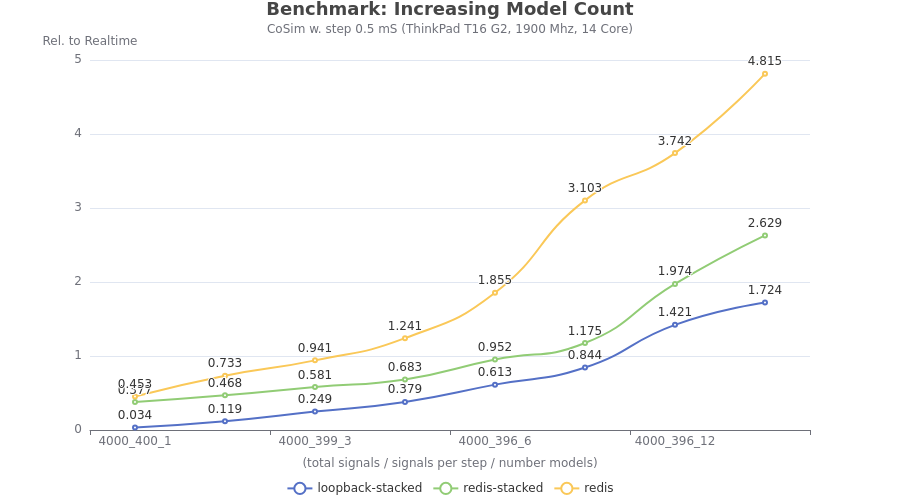
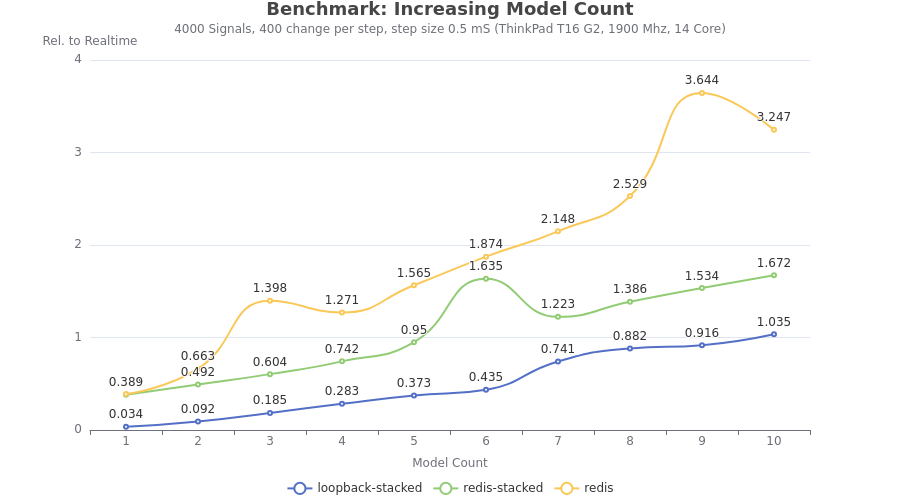
Update benchmark scripts.

diff --git a/dse/modelc/examples/benchmark/model.c b/dse/modelc/examples/benchmark/model.c
@@ -13,14 +13,6 @@
 #include <dse/logger.h>
 
 
-static uint64_t _get_seed()
-{
-    struct timeval tv;
-    gettimeofday(&tv, NULL);
-    return tv.tv_sec * (uint64_t)1000000 + tv.tv_usec;
-}
-
-
 static struct timespec _get_timespec_now(void)
 {
     struct timespec ts = {};
@@ -38,23 +30,19 @@ static uint64_t _get_elapsedtime_us(struct timespec ref)
 }
 
 
-static uint32_t _get_signal_change(
-    SignalVector* sv, uint32_t limit, uint32_t* seed)
-{
-    if (limit == 1) return limit;
-
-    uint32_t minimum = 1;
-    uint32_t maximum = (limit > sv->count) ? sv->count : limit;
-    /* 1 .. 1000 -> 1 .. rand_r(change) */
-    return (rand_r(seed) % (maximum + 1 - minimum)) + minimum;
-}
-
-
 typedef struct {
     ModelDesc       model;
-    /* Benchmark parameters. */
-    uint32_t        signal_change;
-    uint32_t        change_seed;
+
+    /* Operation Parameters */
+    uint32_t model_id;
+
+    /* Block Parameters (calculated). */
+    struct {
+        SignalVector* sv;
+        uint32_t      offset;
+        uint32_t      size;
+    } block;
+
     /* Profiling data. */
     struct timespec start_time;
     uint64_t        setup_time;
@@ -92,10 +80,20 @@ ModelDesc* model_create(ModelDesc* model)
     memcpy(m, model, sizeof(ModelDesc));
     m->start_time = _get_timespec_now();
 
-    /* Setup the benchmark parameters. */
-    m->signal_change =
-        _get_envar((ModelDesc*)m, "SIGNAL_CHANGE", m->model.sv->count);
-    m->change_seed = _get_seed();
+    /* Setup the parameters. */
+    m->model_id = _get_envar((ModelDesc*)m, "MODEL_ID", 1);
+    m->block.size = _get_envar((ModelDesc*)m, "SIGNAL_CHANGE", 5);
+    m->block.sv = m->model.sv;
+    m->block.offset = m->block.size * (m->model_id - 1);
+    if ((m->block.offset + m->block.size) > m->model.sv->count) {
+        m->block.offset = 0;
+    }
+
+     /* Document the conditions. */
+    log_notice("m->model_id %u", m->model_id);
+    log_notice("m->block.offset %u", m->block.offset);
+    log_notice("m->block.size %u", m->block.size);
+    log_notice("m->block.sv->count %u", m->block.sv->count);
 
     /* Return the extended object. */
     return (ModelDesc*)m;
@@ -109,16 +107,12 @@ int model_step(ModelDesc* model, double* model_time, double stop_time)
         m->setup_time = _get_elapsedtime_us(m->start_time);
     }
 
-    for (SignalVector* sv = m->model.sv; sv->name; sv++) {
-        uint32_t count =
-            _get_signal_change(sv, m->signal_change, &m->change_seed);
-        log_info("Signal change count is : %d", count);
-        for (size_t i = 0; i < count; i++) {
-            sv->scalar[i] += 1.2;
-        }
+    for (size_t i = 0; i < m->block.size; i++) {
+        size_t idx = m->block.offset + i;
+        m->block.sv->scalar[idx] += 1;
     }
-    m->step_count += 1;
 
+    m->step_count += 1;
     *model_time = stop_time;
     return 0;
 }
@@ -134,8 +128,8 @@ void model_destroy(ModelDesc* model)
         ":::benchmark:%s::%s;%s;%.6f;%.6f;%u;%u;%u;%lu;%."
         "3f;%.3f:::" LOG_COLOUR_NONE,
         tag, m->model.sim->transport, m->model.sim->uri,
-        m->model.sim->step_size, m->model.sim->end_time, m->model.mi->uid,
-        m->model.sv->count, m->signal_change, m->step_count,
+        m->model.sim->step_size, m->model.sim->end_time, m->model_id,
+        m->model.sv->count, m->block.size, m->step_count,
         m->setup_time / 1000000.0,
         _get_elapsedtime_us(m->start_time) / 1000000.0);
 }

diff --git a/extra/tools/benchmark/internal/app/chart/chart.go b/extra/tools/benchmark/internal/app/chart/chart.go
@@ -28,6 +28,8 @@ type ChartCommand struct {
 
 	title      string
 	conditions string
+	axisIndex  uint
+	axisLabel  string
 	inputFile  string
 	outputFile string
 }
@@ -41,6 +43,8 @@ func NewChartCommand(name string) *ChartCommand {
 	}
 	c.FlagSet().StringVar(&c.title, "title", "Benchmark", "chart title")
 	c.FlagSet().StringVar(&c.conditions, "conditions", "Conditions (N/A)", "chart conditions")
+	c.FlagSet().UintVar(&c.axisIndex, "axis_index", 1, "axis index from [redis_4000_200_10], index=3 -> 10")
+	c.FlagSet().StringVar(&c.axisLabel, "axis_label", "", "axis label")
 	c.FlagSet().StringVar(&c.inputFile, "input", "", "path to captured console output of benchmark simulation")
 	c.FlagSet().StringVar(&c.outputFile, "output", "", "path to write generated chart ()")
 	return c
@@ -113,8 +117,8 @@ func (c *ChartCommand) getSeries() (*chartSeries, error) {
 		lines: orderedmap.NewOrderedMap[string, []float64](),
 	}
 	for key, samples := range raw_sample.AllFromFront() {
-		s := strings.SplitN(key, `_`, 2)
-		name, sample := s[0], s[1]
+		s := strings.SplitN(key, `_`, -1)
+		name, sample := s[0], s[c.axisIndex]
 		value := func() float64 {
 			var max float64
 			for _, v := range samples {
@@ -158,7 +162,7 @@ func (c *ChartCommand) generateChart(series *chartSeries) error {
 		charts.WithLegendOpts(opts.Legend{Top: "bottom"}),
 		charts.WithYAxisOpts(opts.YAxis{Name: "Rel. to Realtime"}),
 		charts.WithXAxisOpts(opts.XAxis{
-			Name:         "(total signals / signals per step / number models)",
+			Name:         c.axisLabel,
 			NameLocation: "center",
 			NameGap:      30,
 		}),

diff --git a/extra/tools/benchmark/internal/app/simulation/simulation.go b/extra/tools/benchmark/internal/app/simulation/simulation.go
@@ -98,6 +98,8 @@ func (c *SimulationCommand) Run() error {
 					"data/signal_group.yaml",
 				},
 				Env: &map[string]string{
+					"MODEL_COUNT":   fmt.Sprintf("%d", c.modelCount),
+					"MODEL_ID":      fmt.Sprintf("%d", i),
 					"SIGNAL_CHANGE": fmt.Sprintf("%d", c.signalChange),
 				},
 			},
